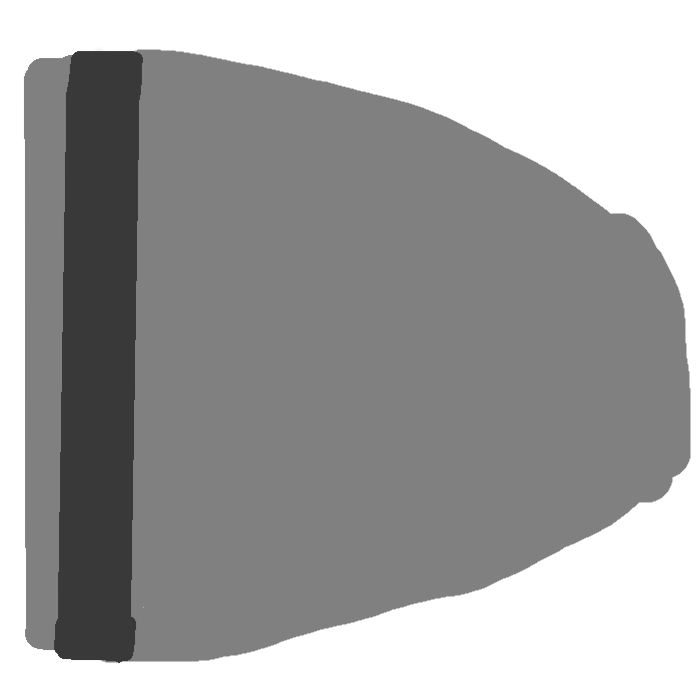
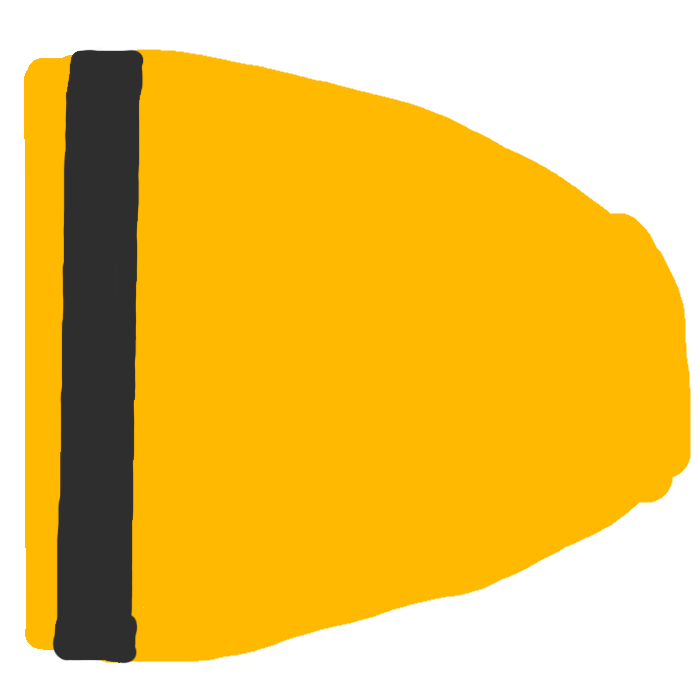
총알 이미지 변경, 알고리즘 주석 추가

diff --git a/src/move/EnhancedBulletDodgePanel.java b/src/move/EnhancedBulletDodgePanel.java
@@ -1,15 +1,15 @@
+// 소스파일 - https://github.com/miles-tails-prower05/2025-2_JAVA_game/blob/main/src/move/EnhancedBulletDodgePanel.java
+
 package move;
 
 import java.awt.*;
 import java.awt.event.*;
 import java.util.ArrayList;
+import javax.swing.*;
 
-import javax.swing.ImageIcon;
-import javax.swing.JLabel;
-import javax.swing.SwingConstants;
-import javax.swing.Timer;
-
-public class EnhancedBulletDodgePanel extends BulletDodgePanel {
+// 개선된 총알 피하기 패널
+public class EnhancedBulletDodgePanel extends BulletDodgePanel
+{
 
 	private Container frame;
 	private CardLayout cards;
@@ -21,11 +21,12 @@ public class EnhancedBulletDodgePanel extends BulletDodgePanel {
     protected String imageShield;
     private int shieldCount, imageSize;
 	
+    // 패널 초기화
 	public EnhancedBulletDodgePanel(Container frame, CardLayout cards, String[] panel, CollidableObject character, String imagePath, int imageSize) {
 		super(character, imagePath+"bullet.png", imageSize);
+		timer.stop();
 		this.character = character;
 		this.characterHP = 2;
-		
 		this.imageSize = imageSize;
 		
 		this.background = new ImageIcon(imagePath+"bg_stage1.png").getImage();
@@ -45,9 +46,9 @@ public class EnhancedBulletDodgePanel extends BulletDodgePanel {
  		this.cards = cards;
  		this.panel = panel;
  		
- 		timer.stop();
- 		
+ 		// 화면 전환 시 반응하는 리스너 등록
  		this.addComponentListener(new ComponentAdapter() {
+ 			// 패널이 보여지면 주기적으로 활성화되는 타이머 시작
             @Override
             public void componentShown(ComponentEvent e) {
             	timer = new Timer( 100, new ActionListener() {
@@ -59,7 +60,8 @@ public class EnhancedBulletDodgePanel extends BulletDodgePanel {
                 });
             	timer.start();
             }
-
+            
+            // 패널이 숨겨지면 패널 초기화
             @Override
             public void componentHidden(ComponentEvent e) {
             	character.directionX = character.STOP;
@@ -67,16 +69,17 @@ public class EnhancedBulletDodgePanel extends BulletDodgePanel {
     			bombs.clear();
     			shields.clear();
     			shieldCount = 0;
-    	        characterHP = 2; // 원래는 2
-    	        time = 300; // 원래는 300
+    	        characterHP = 2;
+    	        time = 300;
             	timer.stop();
             }
         });
 	}
 	
+	// 최신 정보 업데이트
 	@Override
 	protected void update() {
-		// 모든 총알은 오른쪽으로 이동하며, 주기적으로 새 총알을 발사
+		// 모든 총알은 오른쪽으로 이동하며, 더 짧은 주기로 새 총알을 발사
 		for ( CollidableObject bomb : bombs )
 			bomb.move();
 		if ( ( ( time-- ) % 2 ) == 0 ) {  // 주기 변경 (원본: 8)
@@ -90,12 +93,12 @@ public class EnhancedBulletDodgePanel extends BulletDodgePanel {
 			shields.add( new CollidableObject( CollidableObject.RIGHT, CollidableObject.STOP, imageShield, imageSize, width, height ) );
 		}
 		
-		// 캐릭터는 상하로 이동하고 HP 업데이트
+		// 캐릭터는 상하로 이동하고 HP, 방어구 개수 업데이트
 		character.move( CollidableObject.STOP, character.directionY() );
 		updateHP();
 	}
 	
-	// 캐릭터와 폭탄이 충돌하면 캐릭터 HP 감소, 캐릭터와 보호막이 충돌하면 보호막 획득
+	// 캐릭터와 폭탄이 충돌하면 보호막 소모 후 캐릭터 HP 감소, 캐릭터와 방어구가 충돌하면 방어구 획득
 	@Override
 	protected void updateHP() {
 		// 총알 충돌 체크
@@ -103,22 +106,20 @@ public class EnhancedBulletDodgePanel extends BulletDodgePanel {
 			CollidableObject bomb = bombs.get(i);
 			if ( ( bomb.collide( character ) == true ) ) {
 				if (shieldCount > 0)
-                    shieldCount--; // 보호막 소모
+                    shieldCount--; // 방어구 소모
                 else
                     characterHP--;
 				bombs.remove( bomb );
-			}
-			// 이동 허용 범위를 벗어난 폭탄은 제거
-			else if ( ( bomb.collide() == true ) ) {
+			} else if ( ( bomb.collide() == true ) ) {
 				bombs.remove( bomb );
 			}
 		}
 		
-		// 보호막 충돌 체크
+		// 방어구 충돌 체크
         for (int i = 0; i < shields.size(); i++) {
             CollidableObject shield = shields.get(i);
             if (shield.collide(character)) {
-                shieldCount++; // 보호막 획득
+                shieldCount++; // 방어구 획득
                 shields.remove(shield);
             } else if (shield.collide()) {
                 shields.remove(shield);
@@ -130,10 +131,9 @@ public class EnhancedBulletDodgePanel extends BulletDodgePanel {
 	@Override
 	public void paintComponent(Graphics g) {
 		super.paintComponent(g);
-	    // 배경 이미지 그리기
         g.drawImage(background, 0, 0, getWidth(), getHeight(), this);
 
-	    // === 클리어 또는 게임 오버 시 ===
+	    // 클리어 또는 게임 오버 시 패널 전환
 	    if (this.time <= 0) {
 	    	cards.show(frame, panel[2]);
 	        return;
@@ -143,34 +143,30 @@ public class EnhancedBulletDodgePanel extends BulletDodgePanel {
 	        return;
 	    }
 
-	    // === 캐릭터, HP, 폭탄 ===
+	    // 아니면, 체력과 방어구 개수 출력
 	    g.setColor(Color.black);
 	    g.setFont(new Font("Arial", Font.BOLD, 20));
 	    g.drawString("HP : " + hp(), 10, 30);
-
-	    character.paint(g);
-	    for (CollidableObject bomb : bombs)
-	        bomb.paint(g);
 	    
-	    // 남은 실드 표시
         g.setColor(Color.BLUE);
         g.setFont(new Font("Arial", Font.BOLD, 20));
         g.drawString("Shield : " + shieldCount, 10, 60);
 
-        // 실드 아이템 그리기
+        // 캐릭터, 총알, 방어구의 현재 게임 상황 출력
+	    character.paint(g);
+	    for (CollidableObject bomb : bombs)
+	        bomb.paint(g);
         for (CollidableObject shield : shields)
             shield.paint(g);
 
-	    // === 시간 게이지 ===
+	    // 남은 시간 게이지 출력
 	    int barHeight = 20;
 	    int barY = height - barHeight - 45;
-
 	    int maxTime = 300;
 	    int barWidth = (int)(((double) time / maxTime) * width);
 
 	    g.setColor(Color.LIGHT_GRAY);
 	    g.fillRect(0, barY, width, barHeight);
-
 	    g.setColor(Color.GREEN);
 	    g.fillRect(0, barY, barWidth, barHeight);
 
@@ -179,14 +175,12 @@ public class EnhancedBulletDodgePanel extends BulletDodgePanel {
 	@Override
 	public String hp() {
 		switch( this.characterHP ) {
-
-
-		case 2:
-			return "● ●";
-		case 1:
-			return "● ○";
-		default:
-			return "○ ○";
+			case 2:
+				return "● ●";
+			case 1:
+				return "● ○";
+			default:
+				return "○ ○";
 		}
 	}
 }

diff --git a/src/move/MineMazeCharacter.java b/src/move/MineMazeCharacter.java
@@ -6,6 +6,7 @@ import java.awt.*;
 import java.util.Arrays;
 import javax.swing.*;
 
+// 지뢰 피하기 캐릭터
 public class MineMazeCharacter extends TopViewObject {
 	
 	private Container frame;
@@ -16,6 +17,7 @@ public class MineMazeCharacter extends TopViewObject {
 	protected Image[] image;
 	protected final int PATH = 0, MINE = 1, CHARACTER = 2, GOAL = 3, LEFT = -1, RIGHT = 1, UP = -1, DOWN = 1, TOPMARGIN = 40;
 	
+	// 캐릭터 초기화: 이미지, 좌표 설정
 	public MineMazeCharacter(Container frame, CardLayout cards, String[] panel, int[][] map, int x, int y, final String imagePath, final int size) {
 		super(map, x, y, imagePath, size);
 		this.initialX = x;
@@ -37,7 +39,7 @@ public class MineMazeCharacter extends TopViewObject {
 	public int searchMine() {
 		int count = 0;
 		
-		// 탐색 영역 설정
+		// 탐색 영역(캐릭터의 상하좌우) 설정
 		int[][] searchArea = new int[4][2];
 		for (int i = 0; i < searchArea.length; i++) {
 		    searchArea[i] = new int[]{this.x, this.y};
@@ -56,7 +58,7 @@ public class MineMazeCharacter extends TopViewObject {
 		return count;
 	}
 	
-	// 지뢰에 닿으면 사망, 목적지에 도착하면 클리어
+	// 지뢰에 닿으면 사망, 목적지에 도착하면 클리어, 아니면 캐릭터 이동
 	@Override
 	public void move(int directionX, int directionY) {
 		if (map[y+directionY][x+directionX] == MINE) {
@@ -68,9 +70,9 @@ public class MineMazeCharacter extends TopViewObject {
 		}
 	}
 	
-	// 캐릭터와 전체 맵을 출력(제목을 위한 상단 여백, 골인 지점 추가)
+	// 캐릭터와 전체 맵을 출력
 	@Override
-	public void paint(Graphics g) {
+	public void paint(Graphics g) { // 제목을 위한 상단 여백, 골인 지점 추가
 		for( int y = 0; y <= map.length; y++ ){
 			for( int x = 0; x <= map[0].length; x++ ){
 				int index = MINE;

diff --git a/src/move/MineMazePanel.java b/src/move/MineMazePanel.java
@@ -7,16 +7,21 @@ import java.awt.event.*;
 
 import javax.swing.*;
 
+// 지뢰 피하기 패널
 public class MineMazePanel extends ViewPanel {
 	protected MineMazeCharacter character;
 	protected JLabel stageInfoLabel, mineInfoLabel;
 
+	// 패널 초기화
 	public MineMazePanel(MineMazeCharacter character) {
 		super(character);
+		timer.stop();
 		this.character = character;
 		
+		// 배경 색상 채우기, 제목과 지뢰 개수를 표시할 라벨 준비
 		setBackground(Color.DARK_GRAY);
 		setLayout(new BorderLayout());
+		
 		stageInfoLabel = new JLabel();
 		stageInfoLabel.setFont( new Font("맑은 고딕", Font.BOLD, 32) );
 		stageInfoLabel.setForeground(Color.WHITE);
@@ -29,9 +34,9 @@ public class MineMazePanel extends ViewPanel {
 		mineInfoLabel.setForeground(Color.RED);
 		add(mineInfoLabel, BorderLayout.SOUTH);
 		
-		timer.stop();
-		
+		// 화면 전환 시 반응하는 리스너 등록
 		this.addComponentListener(new ComponentAdapter() {
+			// 패널이 보여지면 주기적으로 활성화되는 타이머 시작
             @Override
             public void componentShown(ComponentEvent e) {
             	timer = new Timer( 100, new ActionListener() {
@@ -44,7 +49,8 @@ public class MineMazePanel extends ViewPanel {
             	MineMazePanel.this.requestFocusInWindow();
             	timer.start();
             }
-
+            
+            // 패널이 숨겨지면 패널 초기화
             @Override
             public void componentHidden(ComponentEvent e) {
             	character.x = character.initialX;

diff --git a/Game/SimplePanel.java b/Game/SimplePanel.java
@@ -4,6 +4,7 @@ import java.awt.*;
 import java.awt.event.*;
 import javax.swing.*;
 
+// 심플 패널
 public class SimplePanel extends JPanel {
 	protected Image panelImage;
 	protected final int TITLE = 0, FAIL = 1, SUCCESS = 2;
@@ -16,6 +17,7 @@ public class SimplePanel extends JPanel {
 	
 	// 패널 초기화
 	public SimplePanel( Container frame, CardLayout cards, String[] panel, final String imagePath ) {
+		// 패널 기초 정보 설정: 패널이름, 다음 패널번호, 사용할 이미지, 버튼 텍스트, 버튼 이미지
 		panelName = panel[1];
 		nextPanel = panel[2];
 		panelImagePath = panel[4];
@@ -24,8 +26,8 @@ public class SimplePanel extends JPanel {
 			buttonImage = panel[6];
 		this.panelImage = new ImageIcon( imagePath + panelImagePath ).getImage();
 		
-		setLayout(null);
 		// 클릭하면 반응하는 버튼을 추가
+		setLayout(null);
 		if (panel.length > 6)
 			button = new JButton(new ImageIcon(new ImageIcon(imagePath + buttonImage).getImage().getScaledInstance( 200, 50, Image.SCALE_SMOOTH )));
 		else
@@ -39,13 +41,14 @@ public class SimplePanel extends JPanel {
 		this.cards = cards;
 	}
 	
+	// 배경 이미지 그리기
 	@Override
     protected void paintComponent(Graphics g) {
         super.paintComponent(g);
         g.drawImage(panelImage, 0, 0, null);
     }
 	
-	// 버튼 클릭시 반응
+	// 버튼 클릭시 다음 패널로 이동
 	private class ClickListener implements ActionListener {
 		@Override
 		public void actionPerformed(ActionEvent event) {

diff --git a/src/move/CollidableObject.java b/src/move/CollidableObject.java
@@ -1,4 +1,5 @@
-// 소스파일 - 
+// 소스파일 - https://github.com/miles-tails-prower05/2025-2_JAVA_game/blob/main/src/move/CollidableObject.java
+// 원본 소스파일 - https://github.com/CodeReading101/JAVA/blob/main/src/move/CollidableObject.java
 
 package move;
 // 충돌가능한 객체
@@ -16,7 +17,7 @@ public class CollidableObject extends ObjectByKey
 		if ( ( directionX == STOP ) && ( directionY == DOWN ) ) {
 			this.x = (int)( Math.random() * this.maxX );
 		}
-		// 총알 초기화 : 왼쪽(임의위치)에서 오른쪽으로 총알을 발사
+		// 총알, 방어구 초기화 : 왼쪽(임의위치)에서 오른쪽으로 총알 또는 방어구를 발사
 		else if ( ( directionX == RIGHT ) && ( directionY == STOP ) ) {
 			this.y = imageSize + (int)( Math.random() * ( this.maxY - imageSize ) );
 		}

diff --git a/Game/GameMain.java b/Game/GameMain.java
@@ -7,7 +7,7 @@ import battle.*;
 import move.*;
 
 public class GameMain {
-
+	// 프로그램 시작
 	public static void main(String[] args) {
 		final String imagePath = "C:\\Users\\kunwo\\eclipse-workspace\\JAVA_Game\\src\\"; // 원본: C:\\Users\\user\\Downloads\\JAVA-main\\src\\
 		final int WIDTH = 1280;
@@ -54,5 +54,5 @@ public class GameMain {
 		frame.pack();
 		frame.setVisible(true);
 	}
-
+	// 프레임의 X 버튼 누르면 프로그램 종료
 }

diff --git a/src/move/BulletDodgePanel.java b/src/move/BulletDodgePanel.java
@@ -1,5 +1,5 @@
-// JAVA 프로그래밍 - https://codereading101.github.io/JAVA/
-// 소스파일 - https://github.com/CodeReading101/JAVA/blob/main/src/move/BulletDodgePanel.java
+// 소스파일 - https://github.com/miles-tails-prower05/2025-2_JAVA_game/blob/main/src/move/BulletDodgePanel.java
+// 원본 소스파일 - https://github.com/CodeReading101/JAVA/blob/main/src/move/BulletDodgePanel.java
 
 package move;
 import java.awt.*;

diff --git a/src/move/BombDodgePanel.java b/src/move/BombDodgePanel.java
@@ -1,5 +1,5 @@
-// JAVA 프로그래밍 - https://codereading101.github.io/JAVA/
-// 소스파일 - https://github.com/CodeReading101/JAVA/blob/main/src/move/BombDodgePanel.java
+// 소스파일 - https://github.com/miles-tails-prower05/2025-2_JAVA_game/blob/main/src/move/BombDodgePanel.java
+// 원본 소스파일 - https://github.com/CodeReading101/JAVA/blob/main/src/move/BombDodgePanel.java
 
 package move;
 

diff --git a/src/battle/BattlePanel.java b/src/battle/BattlePanel.java
@@ -4,6 +4,7 @@ import java.awt.*;
 import java.awt.event.*;
 import javax.swing.*;
 
+// 전투 패널
 public class BattlePanel extends JPanel implements ActionListener {
 	protected final int SHOOT = 0, DODGE = 1, KNIFE = 2, IDLE = 3;
 	protected final int PLAYER = 0, ENEMY = 1;

diff --git a/src/move/ObjectByKey.java b/src/move/ObjectByKey.java
@@ -1,4 +1,5 @@
 // 소스파일 - https://github.com/miles-tails-prower05/2025-2_JAVA_game/blob/main/src/move/ObjectByKey.java
+// 원본 소스파일 - https://github.com/CodeReading101/JAVA/blob/main/src/move/ObjectByKey.java
 
 package move;
 

diff --git a/src/battle/BattleCharacter.java b/src/battle/BattleCharacter.java
@@ -2,6 +2,7 @@ package battle;
 
 import java.util.Scanner;
 
+// 전투 캐릭터
 public class BattleCharacter {
 	
 	private int action, message, HP;
